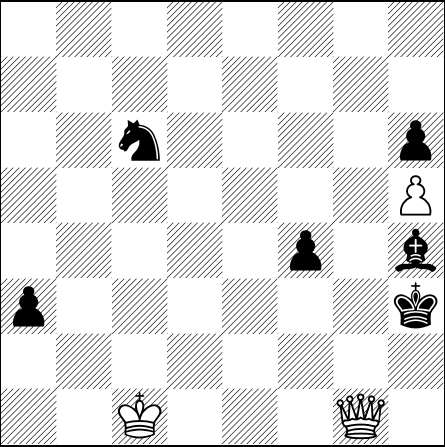
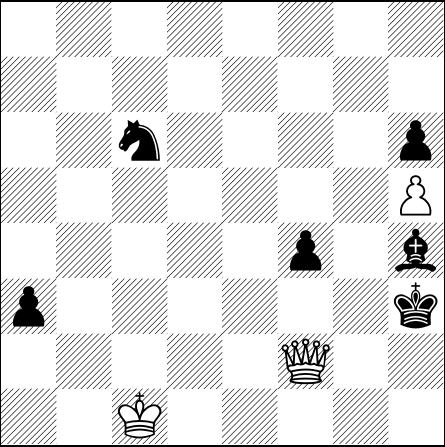
[automated] Regenerate text/pdf for chessboard

Changed region(s): [[0.7596, 0.8725, 0.8764, 0.9888], [0.6135, 0.7562, 0.7596, 0.8725]]

diff --git a/default_filepath.tex b/default_filepath.tex
@@ -13,6 +13,6 @@
 \normalsize%
 \setchessboard{showmover=false}%
 \newgame%
-\fenboard{8/8/2n4p/7P/5p1b/p6k/8/2K3Q1 w - - 8 127}%
+\fenboard{8/8/2n4p/7P/5p1b/p6k/5Q2/2K5 b - - 9 127}%
 \chessboard%
 \end{document}
